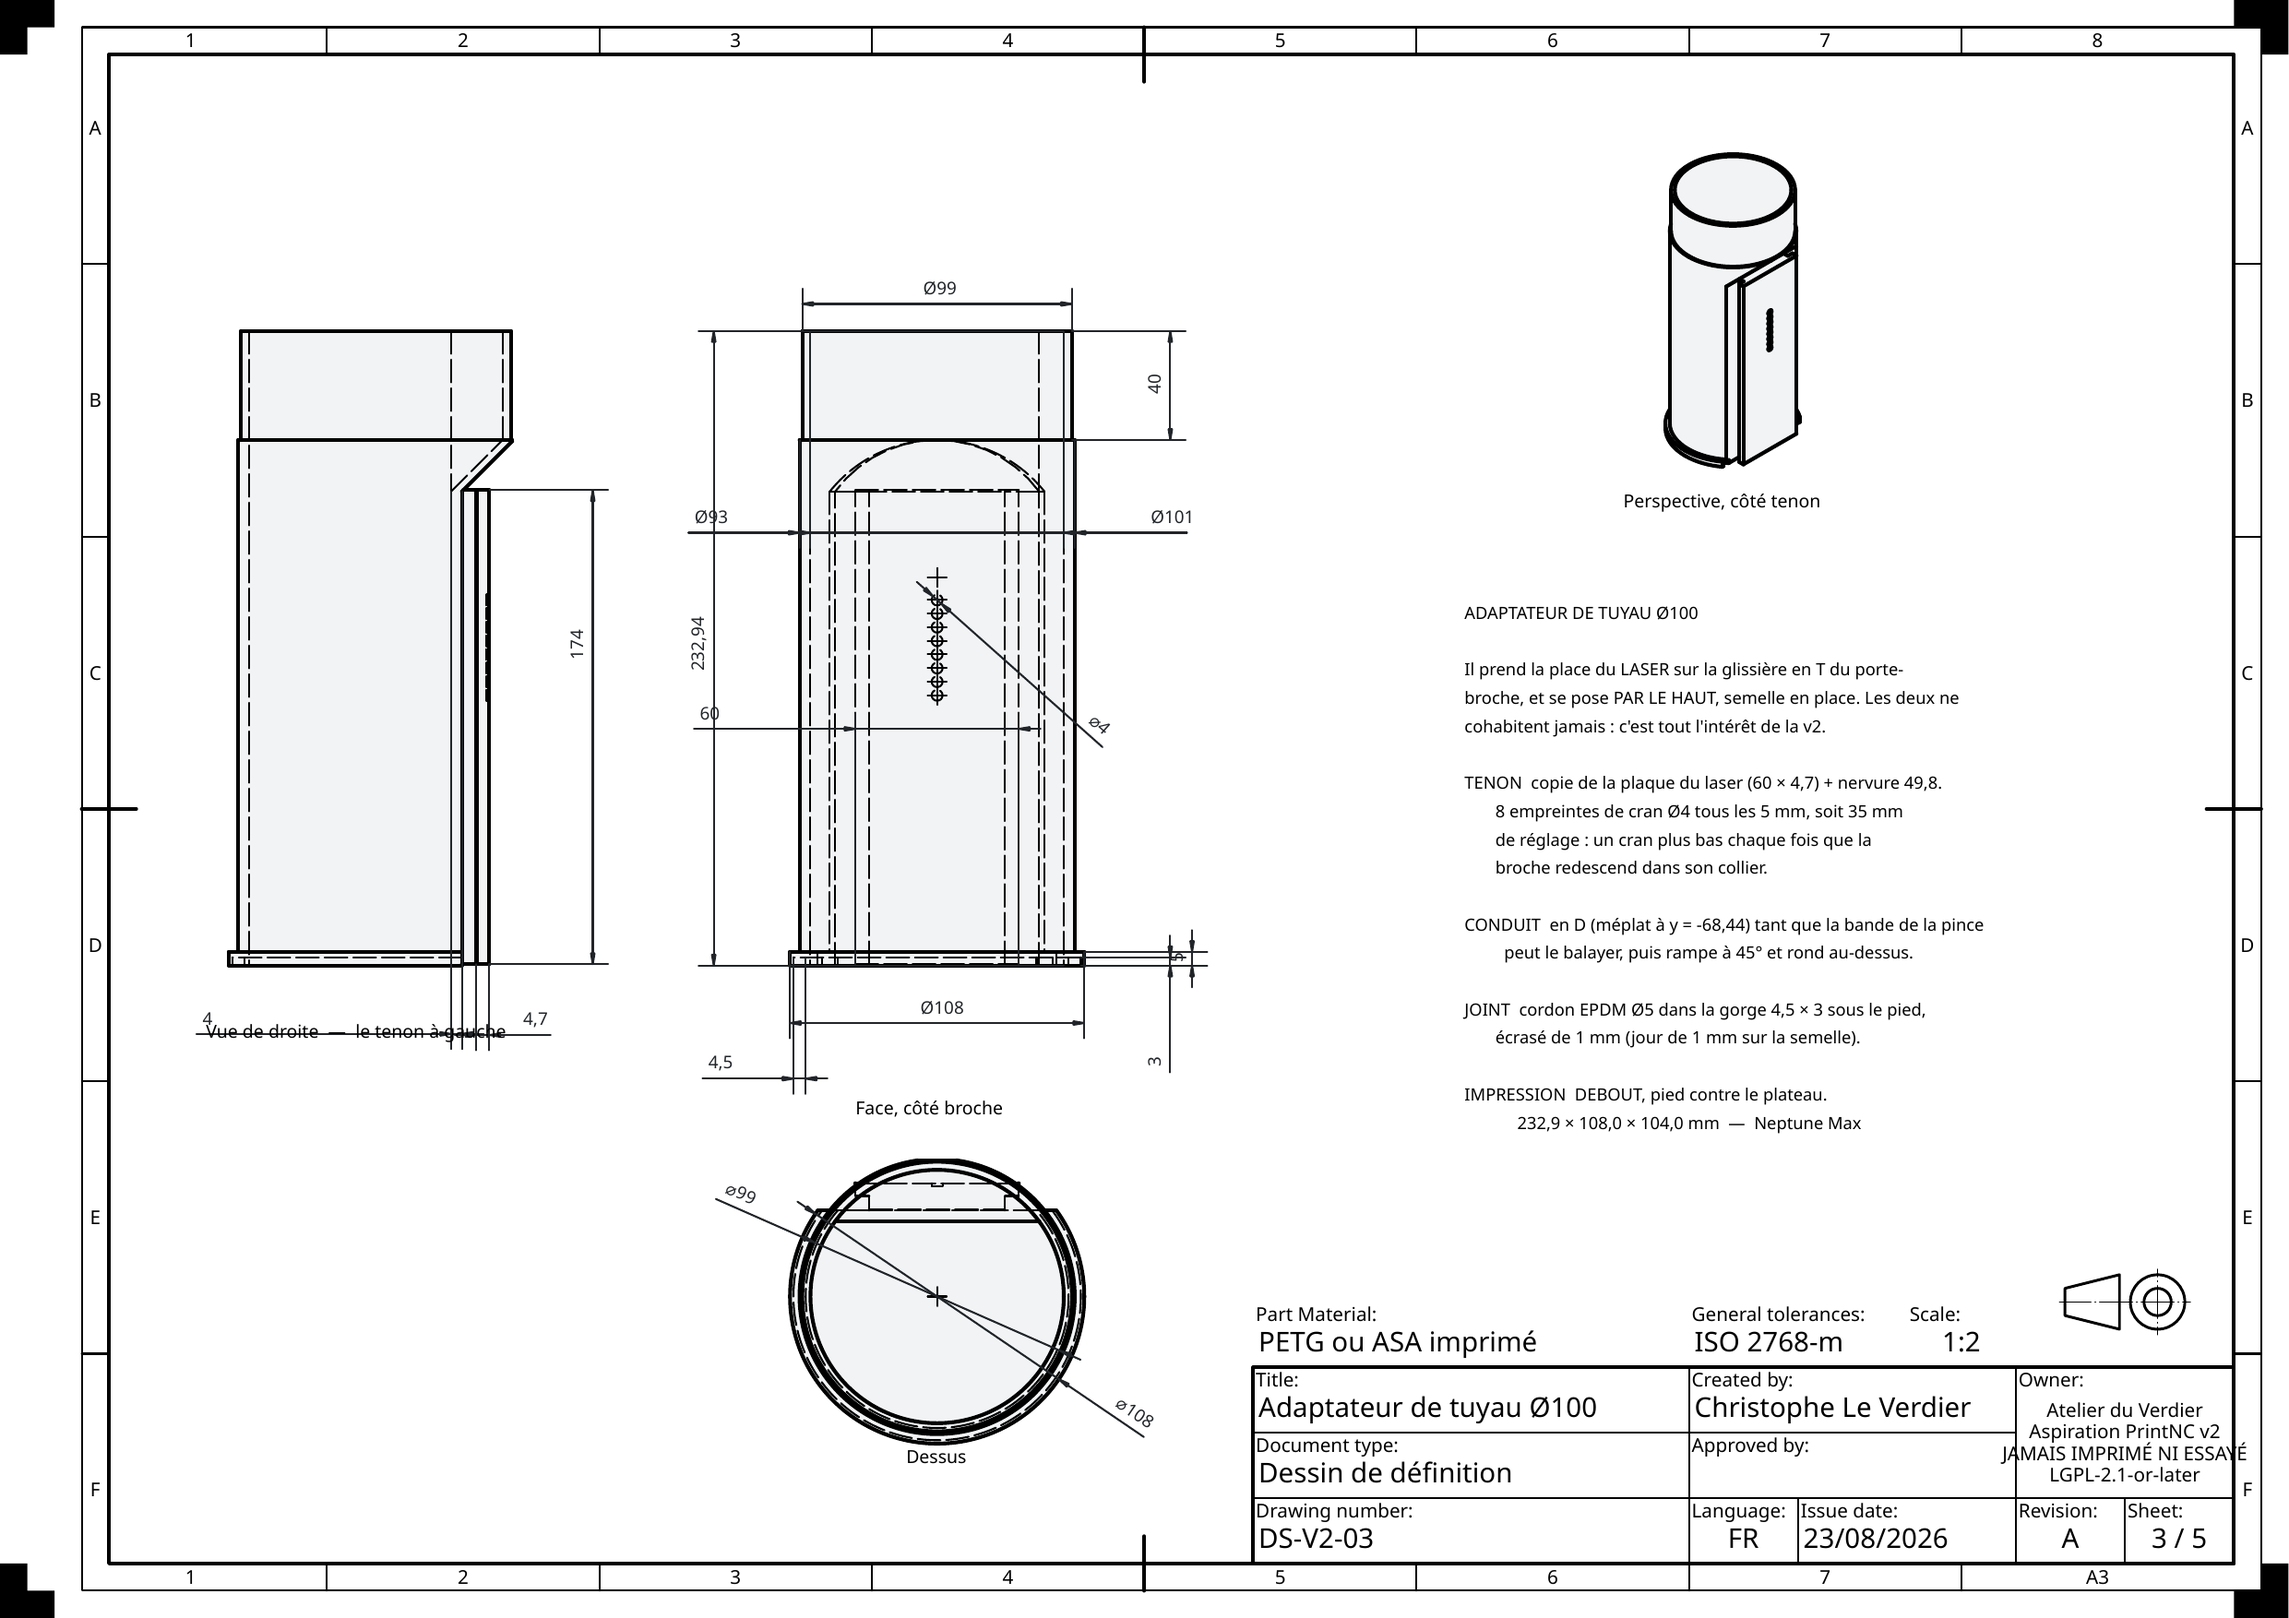
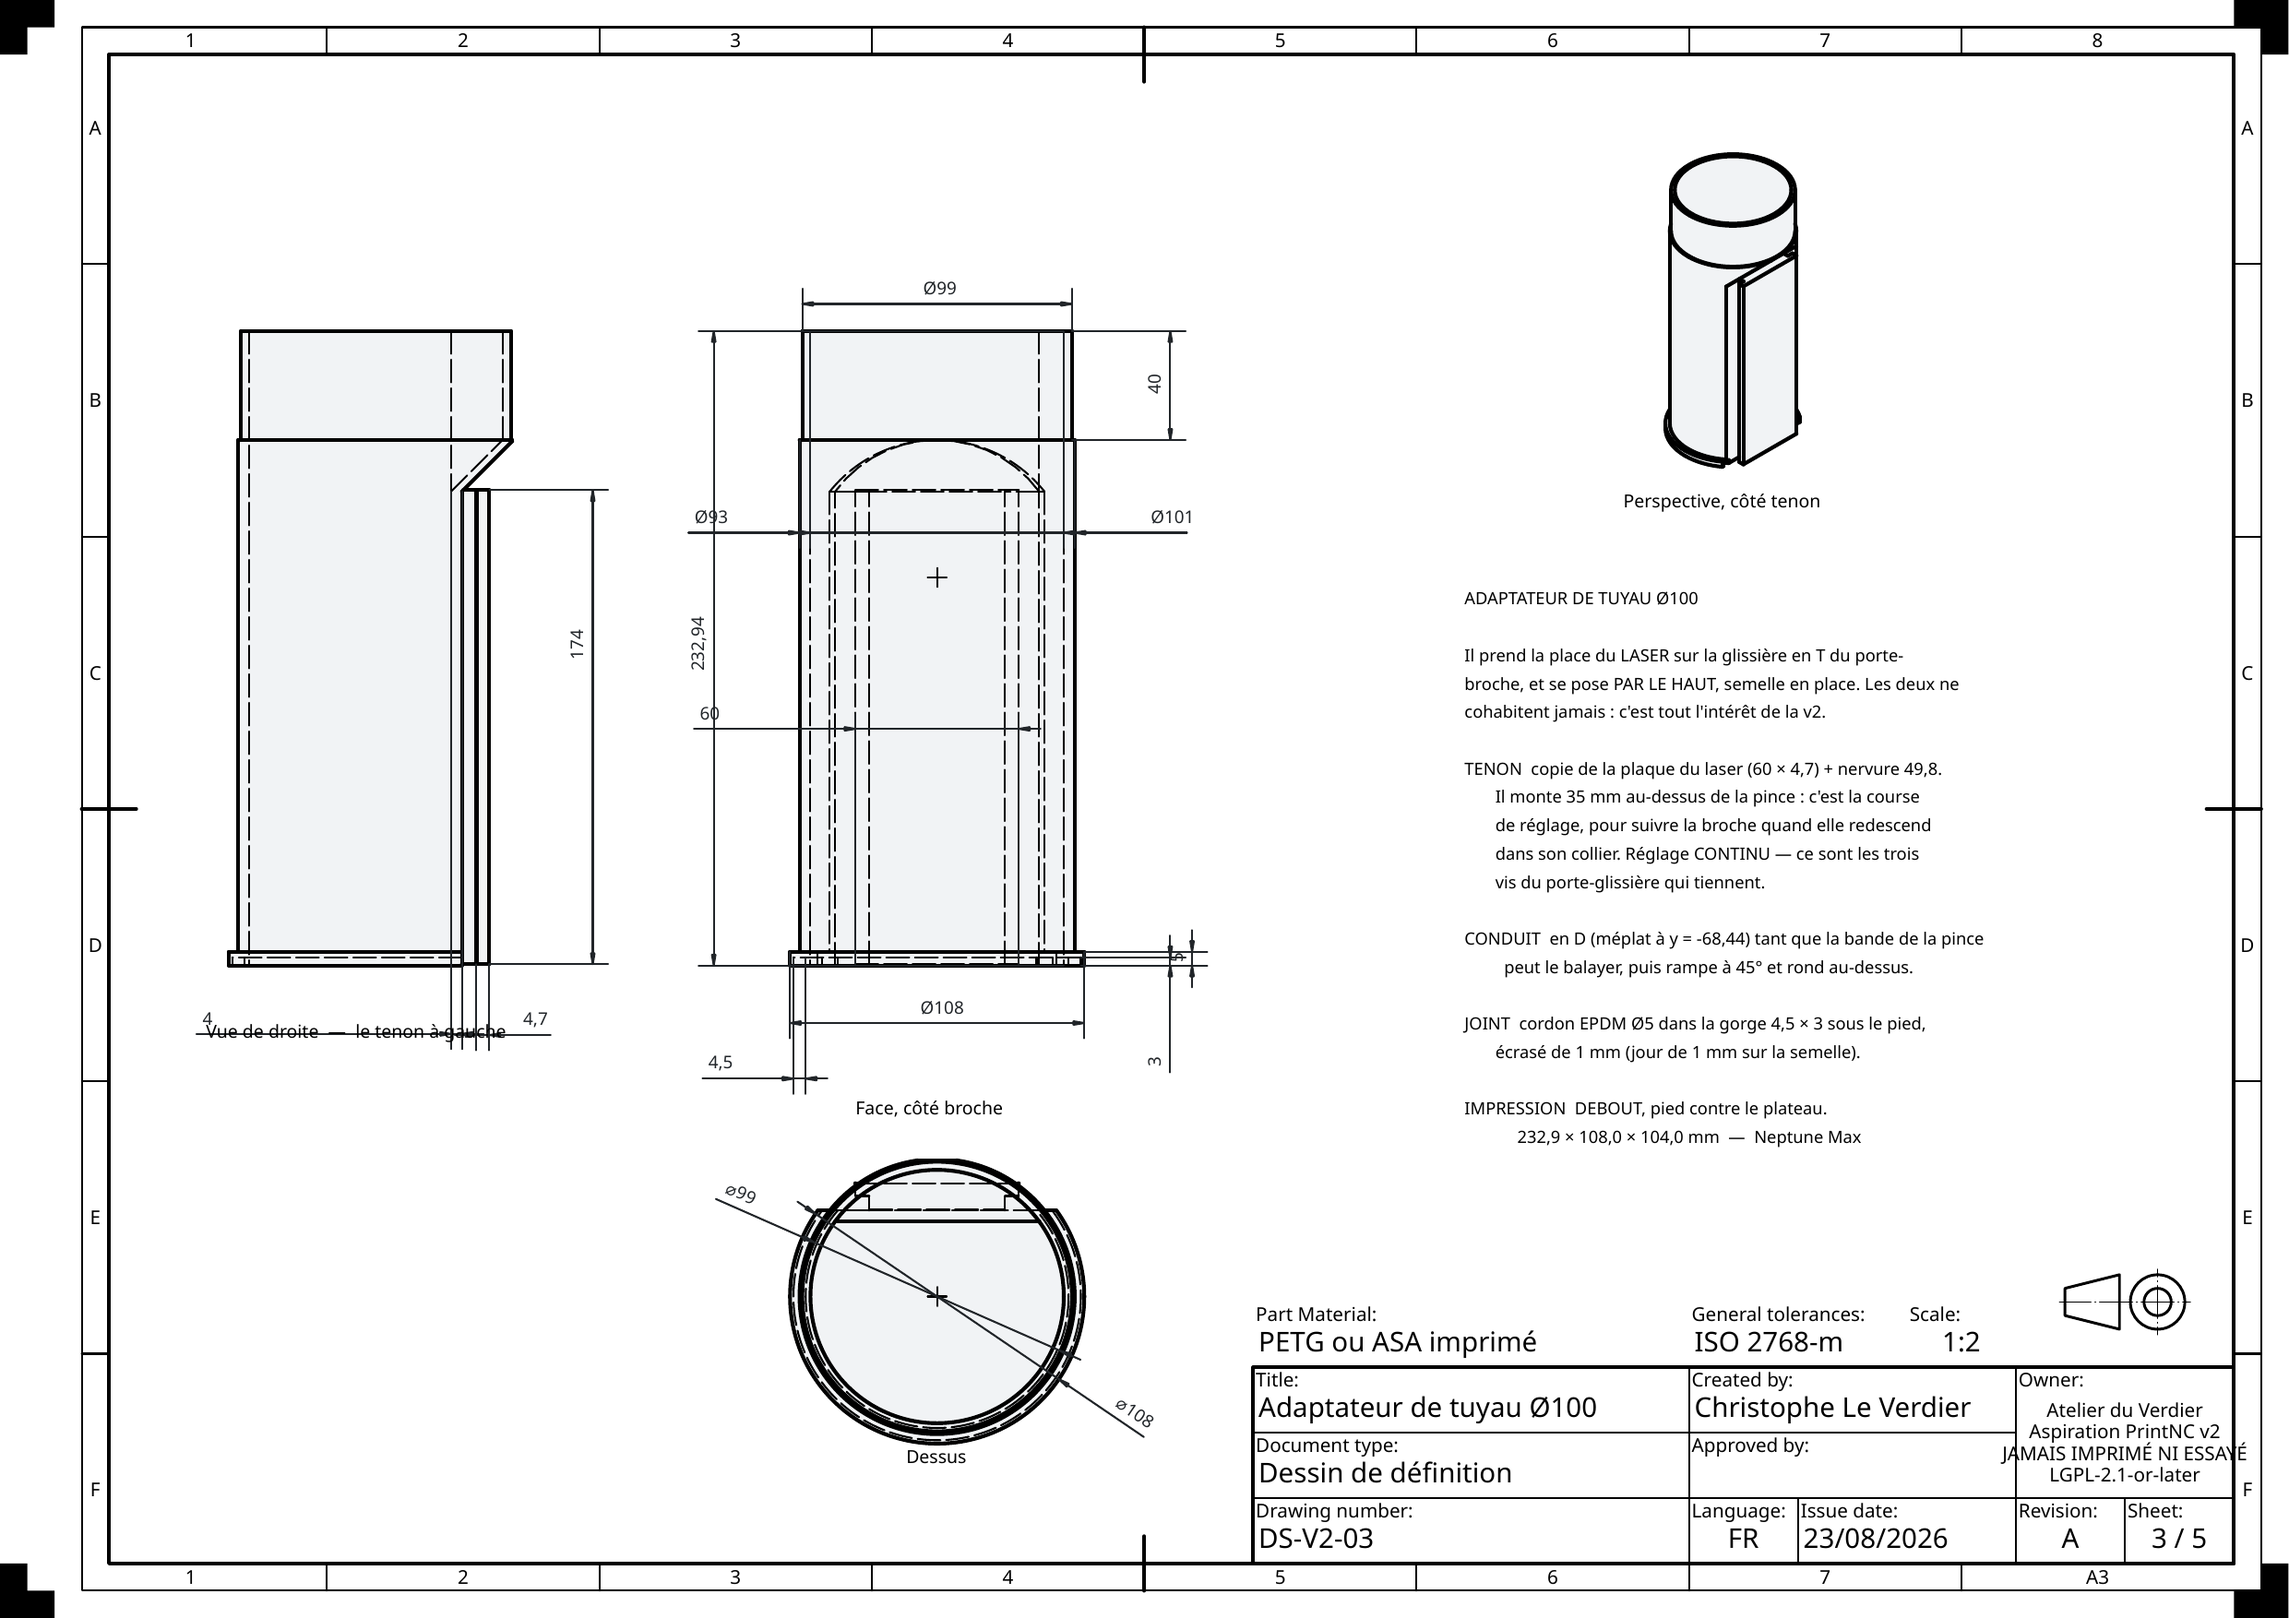
Plus de crans sur l'adaptateur, et moins de FreeCAD dans le texte
Christophe a regarde la machine : le porte-glissiere serre par TROIS VIS,
il n'y a pas de teton. Les huit empreintes O4 du tenon ne servaient donc a
rien — elles partent, le reglage en hauteur est continu. La fiche de
l'adaptateur et la planche le disent maintenant ainsi.

Et l'encart qui expliquait comment TechDraw accroche une cote a une arete
par son index disparait : c'est de la mecanique de logiciel, pas de la
piece, et ca alourdissait la page pour rien. Le principe reste, dit en
deux phrases — la cote est relue et comparee, une planche juste prouve que
les deux modeles disent la meme chose.

Changed region(s): [[0.6207, 0.3694, 0.869, 0.7081], [0.4035, 0.3694, 0.4345, 0.431]]

diff --git a/site/contenu/dust-shoe.html b/site/contenu/dust-shoe.html
@@ -187,9 +187,9 @@
         <p>
           Un tenon copié sur la plaque du laser ({{fcstd:dustshoe:@plaque_ep|1}} mm
           d'épaisseur), un conduit aplati en D, un pied à joint, et l'emboîture
-          Ø{{fcstd:dustshoe:@spigot_d}} du tuyau. Une rangée d'empreintes de cran
-          Ø{{fcstd:dustshoe:@cran_d}} lui permet de descendre d'un cran chaque fois
-          que la broche redescend dans son collier.
+          Ø{{fcstd:dustshoe:@spigot_d}} du tuyau. Son tenon monte 35 mm au-dessus
+          de la pince : de quoi suivre la broche quand elle redescend dans son
+          collier, en gardant le joint écrasé.
         </p>
       </div>
     </div>
@@ -213,8 +213,9 @@
     <div class="sec-tag">Les plans</div>
     <h2>Cinq planches, et quarante-huit cotes relues</h2>
     <p class="sec-lede">
-      Les planches ne sont pas dessinées : elles sont <b>projetées</b> depuis les corps
-      PartDesign dont sortent les STL. Ce qu'on regarde est donc ce qu'on imprimerait.
+      Les planches ne sont pas dessinées : elles sont <b>projetées</b> depuis les
+      volumes dont sortent les fichiers d'impression. Ce qu'on regarde est donc ce
+      qu'on imprimerait.
     </p>
 
     <figure class="plan">
@@ -242,17 +243,16 @@
     <div class="callout note">
       <span class="ci">Une cote fausse doit se voir toute seule</span>
       <p>
-        Dans TechDraw, une cote s'accroche à une arête par son <b>index</b>, et cet index
-        n'a aucun sens stable : il dépend du calcul de projection. Aucun n'est donc
-        deviné ici. Chaque arête est retrouvée <b>par la mesure</b> — sa longueur, son
-        rayon, sa position — à partir des constantes du modèle de référence ; puis chaque
-        cote posée est <b>relue</b> et comparée à la valeur attendue. Une cote accrochée à
-        la mauvaise arête donne un nombre faux, donc se voit, et le script sort en erreur.
+        Aucune cote n'est posée à la main. Chaque arête est retrouvée <b>par la
+        mesure</b> — sa longueur, son rayon, sa position — puis la cote posée dessus
+        est <b>relue</b> et comparée à la valeur qu'elle devrait avoir. Une cote
+        accrochée au mauvais endroit donne un nombre faux, donc se voit, et la
+        génération s'arrête en erreur.
       </p>
       <p>
-        Et comme le trait vient d'un modèle (le PartDesign) tandis que l'attendu vient de
-        l'autre (le Part scripté), <b>une planche juste prouve au passage que les deux
-        disent la même chose</b>.
+        Et il y a deux modèles derrière : le trait vient de l'un, la valeur attendue
+        de l'autre. <b>Une planche juste prouve donc au passage que les deux disent
+        la même chose.</b>
       </p>
     </div>
 
